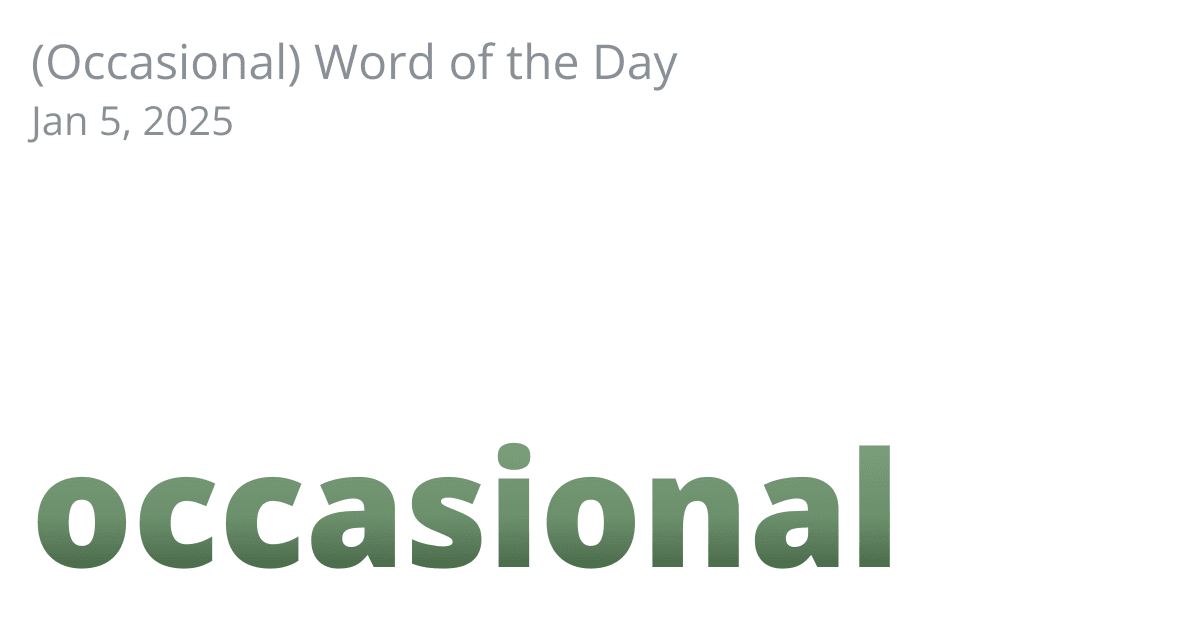
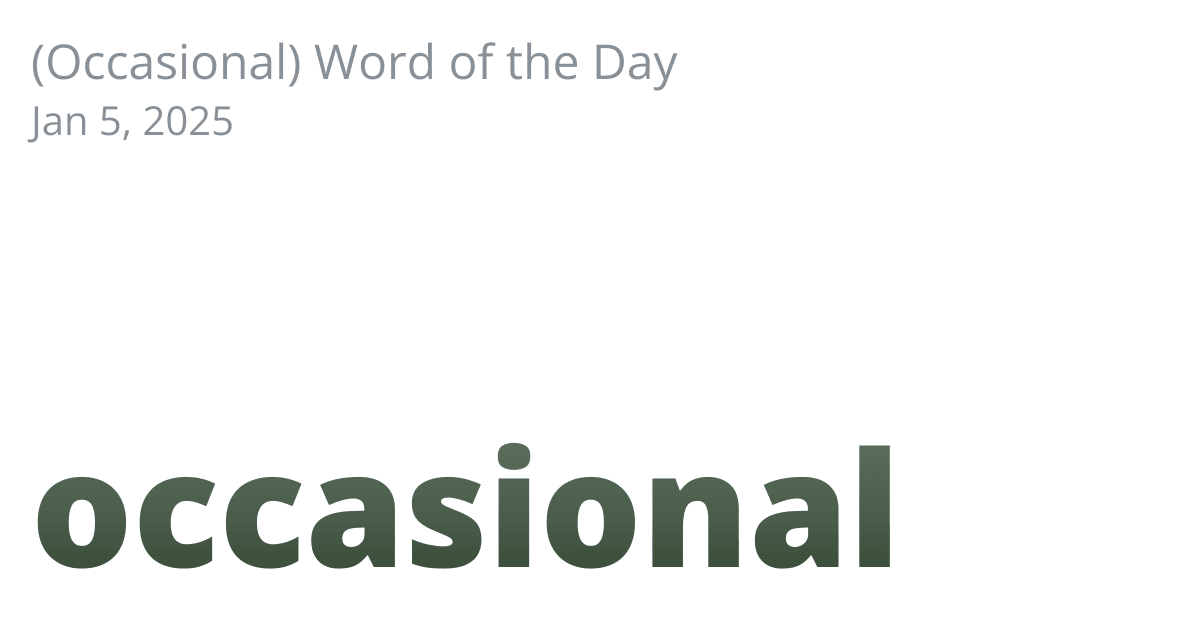
Update image generation logic

Changed region(s): [[0.0308, 0.6937, 0.74, 0.9048]]

diff --git a/tools/generate-word-images.ts b/tools/generate-word-images.ts
@@ -1,10 +1,4 @@
-import fs from 'fs/promises';
-import path from 'path';
-import sharp from 'sharp';
-
-import { paths } from '~config/paths';
-
-import { getAllWords, isUsingDemoWords, generateShareImage, createWordSvg } from '~tools/utils';
+import { generateShareImage, getAllWords, isUsingDemoWords } from '~tools/utils';
 
 /**
  * Generates social share images for all words in the collection
@@ -13,30 +7,13 @@ import { getAllWords, isUsingDemoWords, generateShareImage, createWordSvg } from
 async function generateWordImages(): Promise<void> {
   const words = getAllWords();
   const usingDemo = isUsingDemoWords();
-  const baseOutputDir = usingDemo
-    ? path.join(paths.images, 'social', 'demo')
-    : path.join(paths.images, 'social');
 
   console.log(`Generating images for ${words.length} words (${usingDemo ? 'demo' : 'production'} mode)`);
 
   for (const word of words) {
-    const year = word.date.slice(0, 4);
-    const yearDir = path.join(baseOutputDir, year);
-    await fs.mkdir(yearDir, { recursive: true });
-
-    const svg = createWordSvg(word.word, word.date);
-    const outputPath = path.join(yearDir, `${word.date}-${word.word}.png`);
-
     try {
-      await sharp(Buffer.from(svg))
-        .png({
-          compressionLevel: 9,
-          palette: true,
-          quality: 90,
-          colors: 128,
-        })
-        .toFile(outputPath);
-      console.log(`Generated image for ${word.word} (${word.date}) in ${yearDir}`);
+      await generateShareImage(word.word, word.date);
+      console.log(`Generated image for ${word.word} (${word.date})`);
     } catch (error) {
       console.error(`Error generating image for ${word.word}:`, error);
     }

diff --git a/tools/ping-search-engines.ts b/tools/ping-search-engines.ts
@@ -179,7 +179,7 @@ async function pingAll(): Promise<void> {
   const results = await Promise.all(
     engineList.map(engineObj => pingSearchEngine(engineObj).catch(error => error)),
   );
-  
+
   results.forEach(result => {
     if (result.error) {
       console.error('Failed to ping search engine', { engine: result.engine, error: result.error });

diff --git a/tools/generate-word-data.ts b/tools/generate-word-data.ts
@@ -2,7 +2,6 @@ import fs from 'fs';
 
 import { getAdapter } from '~adapters/factory';
 import { paths } from '~config/paths';
-
 import { getAllWordFiles, getAllWords, updateWordFile } from '~tools/utils';
 import { generateWordDataHash } from '~utils/word-data-utils';
 

diff --git a/tools/generate-generic-images.ts b/tools/generate-generic-images.ts
@@ -1,5 +1,5 @@
-import { getStaticPages } from '~utils/page-utils';
 import { generateGenericShareImage } from '~tools/utils';
+import { getStaticPages } from '~utils/page-utils';
 import { getAvailableYears } from '~utils/word-data-utils';
 
 /**

diff --git a/tools/generate-page-image.ts b/tools/generate-page-image.ts
@@ -1,5 +1,5 @@
-import { getStaticPages } from '~utils/page-utils';
 import { generateGenericShareImage } from '~tools/utils';
+import { getStaticPages } from '~utils/page-utils';
 
 /**
  * Generates a social share image for a specific page
